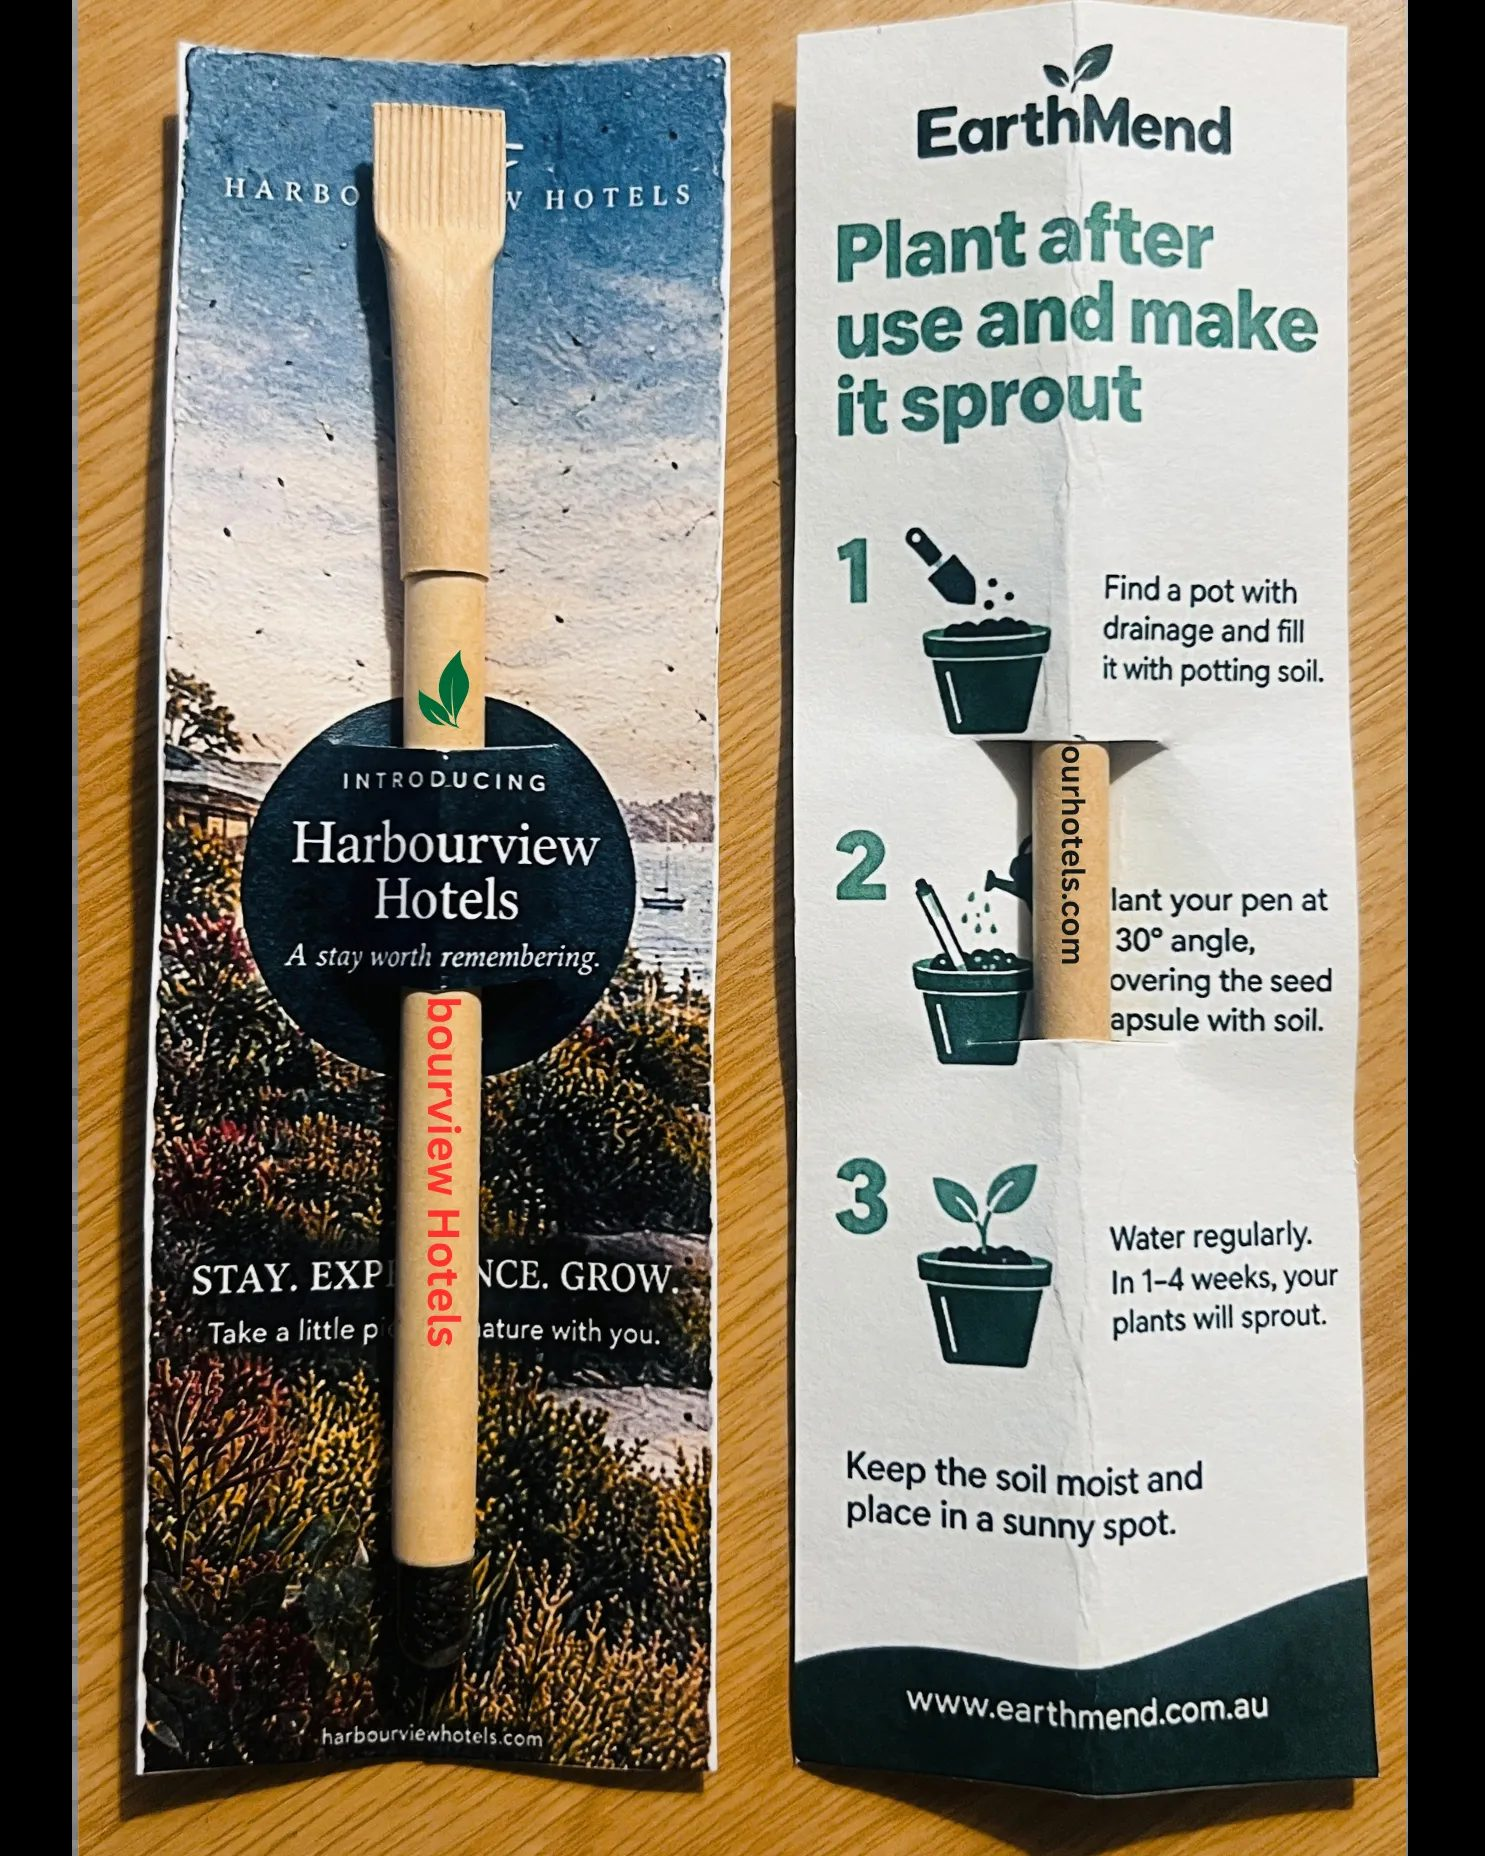
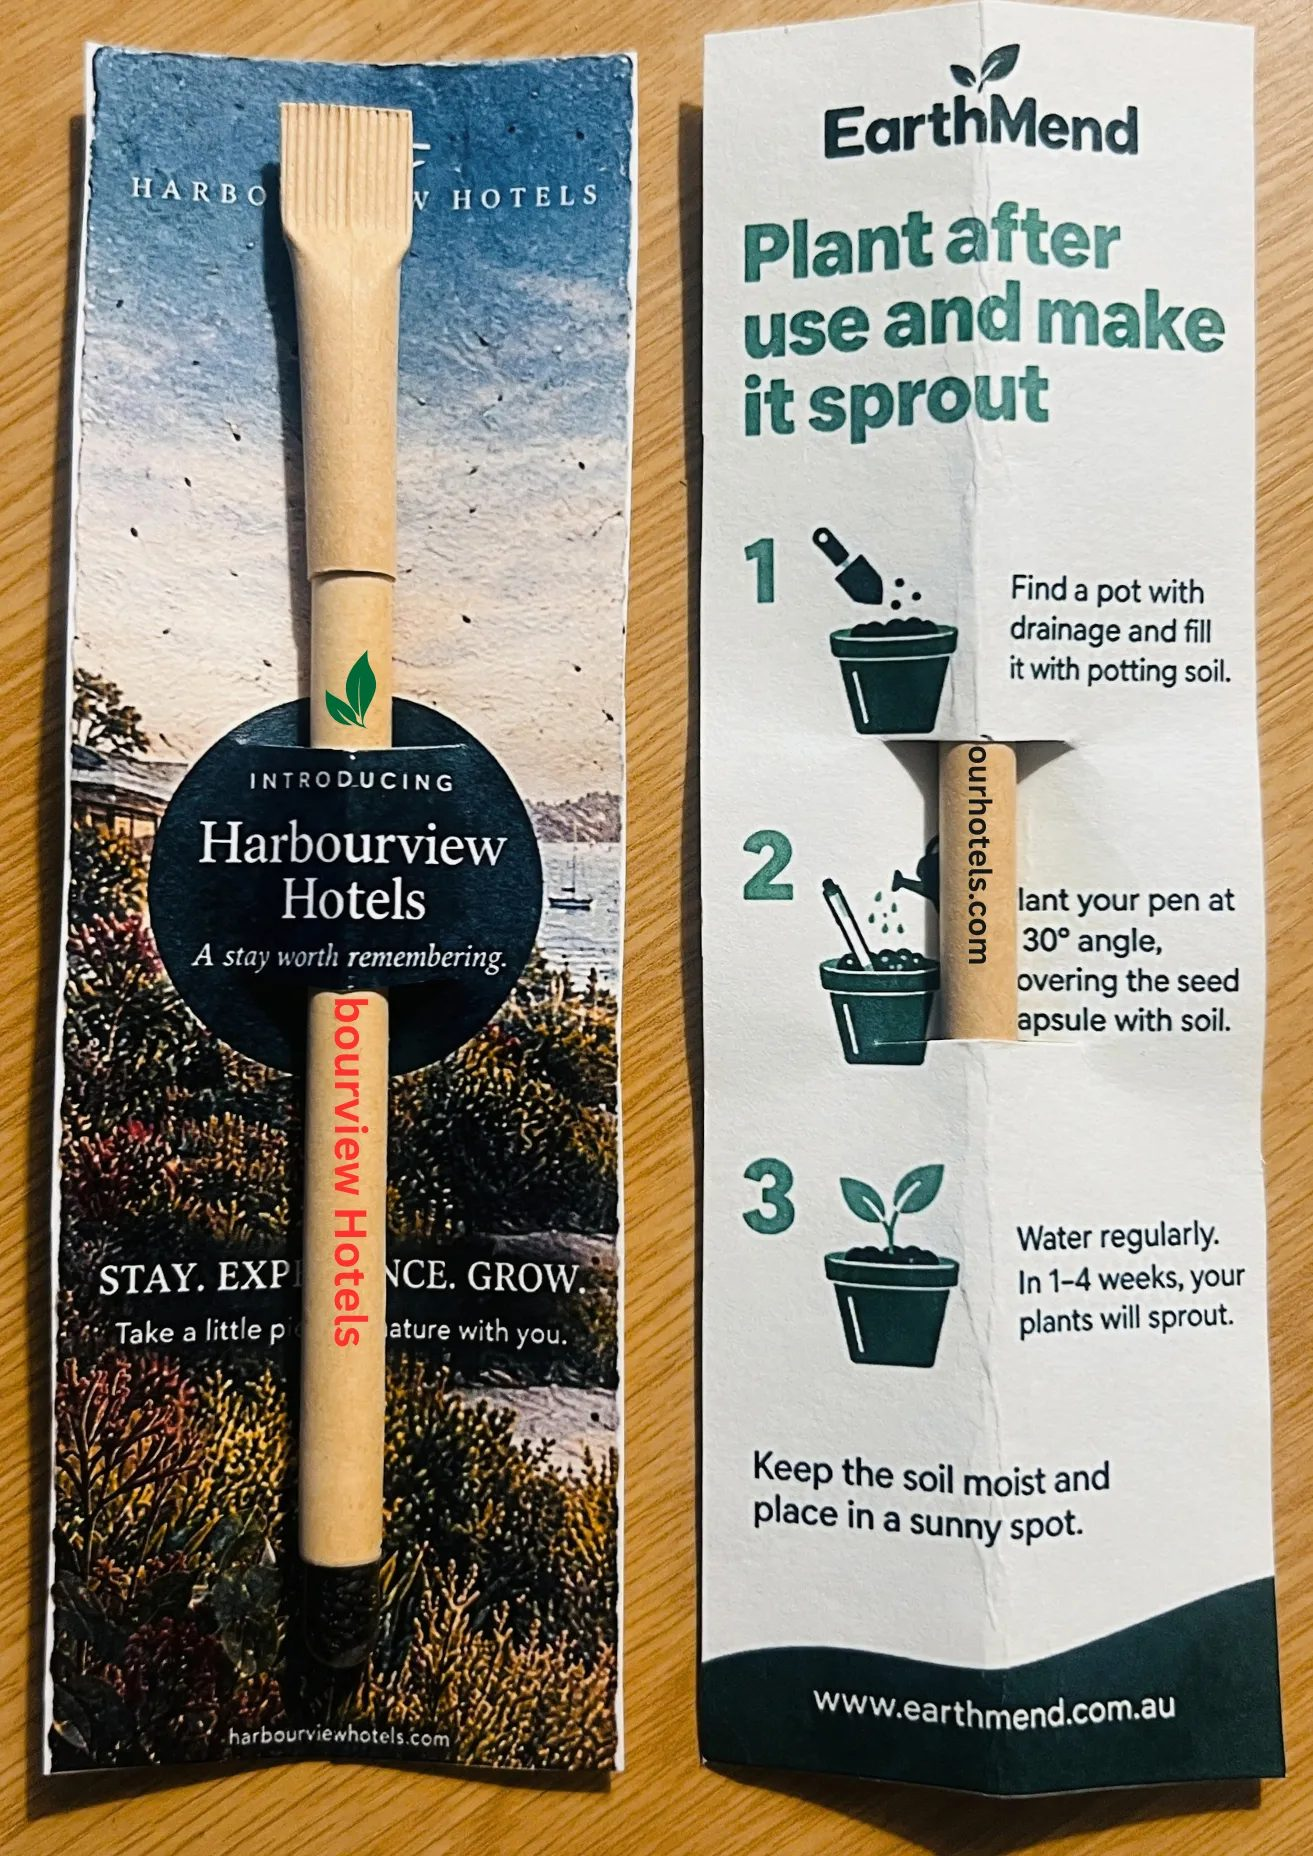
Use tighter-cropped version of the sample card sleeve photo
Swaps in a tighter crop of the same pen + card sleeve shot, with
less surrounding desk visible, and updates the aspect ratio to match.

diff --git a/src/components/sections/SampleCTA.tsx b/src/components/sections/SampleCTA.tsx
@@ -19,7 +19,7 @@ export default function SampleCTA() {
               src={sampleCardSleeve}
               alt="An EarthMend pen in a sample card sleeve branded for a fictional hotel company, beside EarthMend's own 'Plant after use' instructions card"
               className="w-full object-cover"
-              style={{ aspectRatio: "1485 / 1856" }}
+              style={{ aspectRatio: "1313 / 1856" }}
             />
           </Reveal>
 
